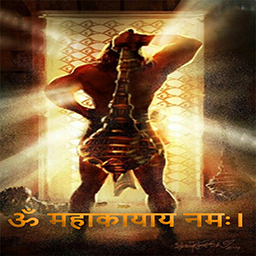
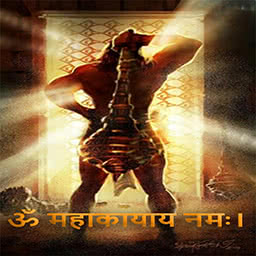
Adding images with Optimization minor changes in content

diff --git a/hanuman/hindi/pages/hanuman-chalisa-hindi-index.html b/hanuman/hindi/pages/hanuman-chalisa-hindi-index.html
@@ -25,10 +25,11 @@ a:hover, a:visited, a:link, a:active
   margin-top: 2%;
   height:290px;
 }
-.template-card-wide-background {background: url("../resources/Hanuman888.jpg") center / cover;}
+.template-card-wide-background {background: url("../resources/Hanuman889.jpg") center / cover;}
 .template_centre_button.mdl-button
 {
   position:relative;
+  font-size: 1.5rem;
   font-family: "Noto Sans Devanagari","Noto Sans", sans-serif;
   font-weight: bold;
 }
@@ -45,8 +46,8 @@ a:hover, a:visited, a:link, a:active
   position:relative;
   width:100%;
 }
-.template-card-small-background-benifits{background: url("../resources/hanuman-ji-wallpaper300-200.jpg") center / cover; }
-.template-card-small-background-process{background: url("../resources/HanumanChalisaAnusthaan356-200.jpg") center / cover; }
+.template-card-small-background-benifits{background: url("../resources/hanuman-ji-wallpaper300-201.jpg") center / cover; }
+.template-card-small-background-process{background: url("../resources/HanumanChalisaAnusthaan356-201.jpg") center / cover; }
 
 /** CSS for small card background images **/
 
@@ -62,6 +63,8 @@ a:hover, a:visited, a:link, a:active
 }
 .template-card-supporting-text.mdl-card__supporting-text
 {
+  font-size: 1.3rem;
+  line-height: 22px;
   font-family: "Noto Sans Devanagari","Noto Sans", sans-serif;
 
 }
@@ -89,21 +92,20 @@ img.article-image {
       <span class="template-layout-title mdl-layout-title">हनुमान चालीसा</span>
       <!-- Add spacer, to align navigation to the right -->
       <div class="mdl-layout-spacer"></div>
-      <!-- Navigation. We hide it in small screens. -->
+      <!-- Navigation. We hide it in small screens.
       <nav class="mdl-navigation mdl-layout--large-screen-only">
-        <a class="mdl-navigation__link" href="">Link</a>
-        <a class="mdl-navigation__link" href="">Link</a>
-        <a class="mdl-navigation__link" href="">Link</a>
-        <a class="mdl-navigation__link" href="">Link</a>
-      </nav>
+        <a class="mdl-navigation__link" href="hanuman-chalisa-hindi-download.html">हनुमान चालीसा मंत</a>
+        <a class="mdl-navigation__link" href="hanuman-chalisa-hindi-benifits.html">हनुमान चालीसा के ५ लाभ </a>
+        <a class="mdl-navigation__link" href="hanuman-chalisa-hindi-chanting-procedure.html">अनुष्ठान विध</a>
+      </nav> -->
     </div>
   </header>
   <div class="mdl-layout__drawer">
     <span class="mdl-layout-title">हनुमान चालीसा</span>
     <nav class="mdl-navigation">
-          <a class="mdl-navigation__link" href="hanuman-chalisa-hindi-download1.html">हनुमान चालीसा मंत्र</a>
-      <a class="mdl-navigation__link" href="hanuman-chalisa-hindi-benifits1.html">हनुमान चालीसा के ५ लाभ </a>
-      <a class="mdl-navigation__link" href="hanuman-chalisa-hindi-chanting-procedure1.html">अनुष्ठान विधि</a>
+          <a class="mdl-navigation__link" href="hanuman-chalisa-hindi-download.html">हनुमान चालीसा मंत्र</a>
+      <a class="mdl-navigation__link" href="hanuman-chalisa-hindi-benifits.html">हनुमान चालीसा के ५ लाभ </a>
+      <a class="mdl-navigation__link" href="hanuman-chalisa-hindi-chanting-procedure.html">अनुष्ठान विधि</a>
       <a class="mdl-navigation__link" href="HanumanHdWallpapers.html">HD वाल्ल्पपेर्स </a>
     </nav>
   </div>
@@ -113,9 +115,9 @@ img.article-image {
       <div class="template-card-wide template-card-wide-background mdl-card mdl-shadow--1dp">
 
     <!-- Accent-colored raised button with ripple -->
-  <a href="HanumanChalisaHindi.html">
+  <a href="hanuman-chalisa-hindi-download.html">
   <button class=" mdl-button template_centre_button mdl-js-button mdl-button--raised
-                  mdl-js-ripple-effect mdl-color--primary"style="width: 90px;
+                  mdl-js-ripple-effect mdl-color--primary"style="width: 110px;
                   margin-left:auto;margin-right:auto;margin-top:210px;margin-bottom:0%;display:block;">
         आगे पढ़ें
     </button>
@@ -135,7 +137,7 @@ img.article-image {
 हनुमान चालीसा का हिंदू धर्म में एक विशेष स्थान एवं महत्त्व है।  ऐसा माना जाता है कि हनुमान चालीसा के  जाप से पवनपुत्र हनुमान जी को शीघ्र संतुष्ट कर सकते हैं और उनका आशीर्वाद प्राप्त कर सकते हैं।
 </div>
     <div class="mdl-card__actions  mdl-card--border">
-      <a href="HanumanChalisaBenifits.html" class="template_centre_button mdl-button mdl-button--colored
+      <a href="hanuman-chalisa-hindi-benifits.html" class="template_centre_button mdl-button mdl-button--colored
       mdl-js-button mdl-js-ripple-effect mdl-button--primary">५ बड़े लाभ </a>
     </div>
   </div>
@@ -151,7 +153,7 @@ img.article-image {
       मंत्र पवित्र शब्द होते हैं और उनमें आपके जीवन को बदलने की शक्ति होती है।  वे एक बीज की तरह हैं  जिसका नियमित रुप से जाप और प्रथा के साथ पोषण किया जाना चाहिए।  मंत्र का जाप आपकी चेतना को प्रभावित करने की एक सूक्ष्म प्रक्रिया है। जानिये दुनिया के सबसे शक्तिशाली मंत्र का पाठ कैसे करें।
     </div>
     <div class="mdl-card__actions  mdl-card--border">
-      <a href="HanumanChalisaAnusthaan.html" class="mdl-button template_centre_button
+      <a href="hanuman-chalisa-hindi-chanting-procedure.html" class="mdl-button template_centre_button
       mdl-button--colored mdl-js-button mdl-js-ripple-effect
       mdl-button--primary">वैज्ञानिक जप विधि</a>
     </div>
@@ -170,7 +172,7 @@ img.article-image {
         </div>
         <div class="mdl-card__actions  mdl-card--border">
           <a href="HanumanChalisaAnusthaan.html" class="mdl-button template_centre_button mdl-button--colored
-          mdl-js-button mdl-js-ripple-effect mdl-button--primary">DOWNLOAD</a>
+          mdl-js-button mdl-js-ripple-effect mdl-button--primary">डाउनलोड </a>
         </div>
     </div>
     <div class="mdl-cell mdl-card mdl-shadow--4dp portfolio-card">
@@ -186,7 +188,7 @@ img.article-image {
         </div>
         <div class="mdl-card__actions  mdl-card--border">
           <a href="HanumanChalisaAnusthaan.html" class="mdl-button template_centre_button mdl-button--colored
-          mdl-js-button mdl-js-ripple-effect mdl-button--primary">DOWNLOAD</a>
+          mdl-js-button mdl-js-ripple-effect mdl-button--primary">डाउनलोड </a>
         </div>
     </div>
     <div class="mdl-cell mdl-card mdl-shadow--4dp portfolio-card">
@@ -202,7 +204,7 @@ img.article-image {
         </div>
         <div class="mdl-card__actions  mdl-card--border">
           <a href="HanumanChalisaAnusthaan.html" class="mdl-button template_centre_button mdl-button--colored
-          mdl-js-button mdl-js-ripple-effect mdl-button--primary">DOWNLOAD</a>
+          mdl-js-button mdl-js-ripple-effect mdl-button--primary">डाउनलोड </a>
         </div>
     </div>
 </section>

diff --git a/hanuman/hindi/pages/hanuman-chalisa-hindi-download.html b/hanuman/hindi/pages/hanuman-chalisa-hindi-download.html
@@ -60,6 +60,7 @@
  .template_centre_button.mdl-button
  {
    position:relative;
+   font-size: 1.5rem;
    font-family: "Noto Sans Devanagari","Noto Sans", sans-serif;
    font-weight: bold;
  }
@@ -70,7 +71,9 @@
  }
  .template-card-supporting-text.mdl-card__supporting-text
  {
-   font-family: 'Noto Sans', sans-serif;
+   font-size: 1.3rem;
+   line-height: 22px;
+   font-family: "Noto Sans Devanagari","Noto Sans", sans-serif;
  }
  .template-card-supporting-text-subheading
  {
@@ -87,8 +90,11 @@ padding-bottom:20px;
   text-align: center;
 }
  /*** CSS structures for all main cards ***/
- .template-card-wide-background {background: url("../resources/Hanuman888.jpg") center / cover;}
-
+ .template-card-wide-background {background: url("../resources/Hanuman889.jpg") center / cover;}
+ img.article-image {
+   width: 100%;
+   height: auto;
+ }
  </style>
  </head>
  <body>
@@ -96,20 +102,20 @@ padding-bottom:20px;
 
    <header class="mdl-layout__header">
      <div class="template-leftalign-header mdl-layout__header-row">
-       <a href="index.html">
+       <a href="hanuman-chalisa-hindi-index.html">
        <i class="material-icons md1">arrow_back</i>
      </a>
        <!-- Title -->
        <span class="template-layout-title_nonindex mdl-layout-title">हनुमान चालीसा मंत्र </span>
        <!-- Add spacer, to align navigation to the right -->
        <div class="mdl-layout-spacer"></div>
-       <!-- Navigation. We hide it in small screens. -->
+       <!-- Navigation. We hide it in small screens.
        <nav class="mdl-navigation mdl-layout--large-screen-only">
          <a class="mdl-navigation__link" href="">Link</a>
          <a class="mdl-navigation__link" href="">Link</a>
          <a class="mdl-navigation__link" href="">Link</a>
          <a class="mdl-navigation__link" href="">Link</a>
-       </nav>
+       </nav> -->
      </div>
    </header>
    <main class="mdl-layout__content">
@@ -259,7 +265,7 @@ padding-bottom:20px;
        <section class="section--center mdl-grid site-max-width">
          <div class="mdl-cell mdl-card mdl-shadow--4dp portfolio-card">
              <div class="mdl-card__media">
-                 <img class="article-image" src="../resources/hanuman-ji-wallpaper300-200.jpg" border="0" alt="">
+                 <img class="article-image" src="../resources/hanuman-ji-wallpaper300-201.jpg" border="0" alt="">
              </div>
              <div class="mdl-card__title">
                  <h2 class=" template-card-title-text mdl-card__title-text">हनुमान चालीसा के ५ बड़े लाभ। </h2>
@@ -277,7 +283,7 @@ padding-bottom:20px;
          </div>
          <div class="mdl-cell mdl-card mdl-shadow--4dp portfolio-card">
              <div class="mdl-card__media">
-                 <img class="article-image" src="../resources/HanumanChalisaAnusthaan356-200.jpg" border="0" alt="">
+                 <img class="article-image" src="../resources/HanumanChalisaAnusthaan356-201.jpg" border="0" alt="">
              </div>
              <div class="mdl-card__title">
                  <h2 class="template-card-title-text mdl-card__title-text">जप से अधिकतम लाभ कैसे प्राप्त करें?</h2>

diff --git a/hanuman/hindi/pages/hanuman-chalisa-hindi-benifits.html b/hanuman/hindi/pages/hanuman-chalisa-hindi-benifits.html
@@ -43,6 +43,7 @@
  .template_centre_button.mdl-button
  {
    position:relative;
+  font-size: 1.5rem;
    font-family: "Noto Sans Devanagari","Noto Sans", sans-serif;
    font-weight: bold;
  }
@@ -82,6 +83,8 @@
 
   .template-card-supporting-text.mdl-card__supporting-text
  {
+   font-size: 1.3rem;
+   line-height: 22px;
    font-family: "Noto Sans Devanagari","Noto Sans", sans-serif;
 
  }
@@ -118,7 +121,10 @@ padding-bottom:20px;
 }
  /*** CSS structures for all main cards ***/
  .template-card-wide-background {background: url("../resources/HanumanChalisaBenifits004.jpg") center / cover;}
-
+ img.article-image {
+   width: 100%;
+   height: auto;
+ }
  </style>
  </head>
  <body>
@@ -126,20 +132,20 @@ padding-bottom:20px;
 
    <header class="mdl-layout__header">
      <div class="template-leftalign-header mdl-layout__header-row">
-         <a href="index.html">
+         <a href="hanuman-chalisa-hindi-index.html">
          <i class="material-icons md1">arrow_back</i>
        </a>
        <!-- Title -->
        <span class="template-layout-title_nonindex mdl-layout-title">हनुमान चालीसा के ५ बड़े लाभ  </span>
        <!-- Add spacer, to align navigation to the right -->
        <div class="mdl-layout-spacer"></div>
-       <!-- Navigation. We hide it in small screens. -->
+       <!-- Navigation. We hide it in small screens.
        <nav class="mdl-navigation mdl-layout--large-screen-only">
          <a class="mdl-navigation__link" href="">Link</a>
          <a class="mdl-navigation__link" href="">Link</a>
          <a class="mdl-navigation__link" href="">Link</a>
          <a class="mdl-navigation__link" href="">Link</a>
-       </nav>
+       </nav> -->
      </div>
    </header>
    <main class="mdl-layout__content">
@@ -283,7 +289,7 @@ padding-bottom:20px;
             <section class="section--center mdl-grid site-max-width">
               <div class="mdl-cell mdl-card mdl-shadow--4dp portfolio-card">
                   <div class="mdl-card__media">
-                      <img class="article-image" src="../resources/hanuman-ji-wallpaper300-200.jpg" border="0" alt="">
+                      <img class="article-image" src="../resources/hanuman-ji-wallpaper300-201.jpg" border="0" alt="">
                   </div>
                   <div class="mdl-card__title">
                       <h2 class=" template-card-title-text mdl-card__title-text">हनुमान चालीसा के ५ बड़े लाभ। </h2>
@@ -301,7 +307,7 @@ padding-bottom:20px;
               </div>
               <div class="mdl-cell mdl-card mdl-shadow--4dp portfolio-card">
                   <div class="mdl-card__media">
-                      <img class="article-image" src="../resources/HanumanChalisaAnusthaan356-200.jpg" border="0" alt="">
+                      <img class="article-image" src="../resources/HanumanChalisaAnusthaan356-201.jpg" border="0" alt="">
                   </div>
                   <div class="mdl-card__title">
                       <h2 class="template-card-title-text mdl-card__title-text">जप से अधिकतम लाभ कैसे प्राप्त करें?</h2>

diff --git a/hanuman/hindi/pages/hanuman-chalisa-hindi-chanting-procedure.html b/hanuman/hindi/pages/hanuman-chalisa-hindi-chanting-procedure.html
@@ -29,6 +29,7 @@ color: #fff;
 .template_centre_button.mdl-button
 {
   position:relative;
+  font-size: 1.5rem;
   font-family: "Noto Sans Devanagari","Noto Sans", sans-serif;
   font-weight: bold;
 }
@@ -79,6 +80,8 @@ color: #fff;
  }
   .template-card-supporting-text.mdl-card__supporting-text
  {
+   font-size: 1.3rem;
+   line-height: 22px;
    font-family: "Noto Sans Devanagari","Noto Sans", sans-serif;
 
  }
@@ -115,7 +118,10 @@ padding-bottom:20px;
 }
  /*** CSS structures for all main cards ***/
  .template-card-wide-background {background: url("../resources/HanumanChalisaAnusthaan001.jpg") center / cover;}
-
+ img.article-image {
+   width: 100%;
+   height: auto;
+ }
  </style>
  </head>
  <body>
@@ -123,20 +129,20 @@ padding-bottom:20px;
 
    <header class="mdl-layout__header">
      <div class="template-leftalign-header mdl-layout__header-row">
-       <a href="index.html">
+       <a href="hanuman-chalisa-hindi-index.html">
        <i class="material-icons md1">arrow_back</i>
      </a>
        <!-- Title -->
        <span class="template-layout-title_nonindex mdl-layout-title">हनुमान चालीसा जप से अधिकतम लाभ कैसे प्राप्त करें? </span>
        <!-- Add spacer, to align navigation to the right -->
        <div class="mdl-layout-spacer"></div>
-       <!-- Navigation. We hide it in small screens. -->
+       <!-- Navigation. We hide it in small screens.
        <nav class="mdl-navigation mdl-layout--large-screen-only">
          <a class="mdl-navigation__link" href="">Link</a>
          <a class="mdl-navigation__link" href="">Link</a>
          <a class="mdl-navigation__link" href="">Link</a>
          <a class="mdl-navigation__link" href="">Link</a>
-       </nav>
+       </nav> -->
      </div>
    </header>
    <main class="mdl-layout__content">
@@ -214,7 +220,7 @@ padding-bottom:20px;
       <section class="section--center mdl-grid site-max-width">
         <div class="mdl-cell mdl-card mdl-shadow--4dp portfolio-card">
             <div class="mdl-card__media">
-                <img class="article-image" src="../resources/hanuman-ji-wallpaper300-200.jpg" border="0" alt="">
+                <img class="article-image" src="../resources/hanuman-ji-wallpaper300-201.jpg" border="0" alt="">
             </div>
             <div class="mdl-card__title">
                 <h2 class=" template-card-title-text mdl-card__title-text">हनुमान चालीसा के ५ बड़े लाभ। </h2>
@@ -232,7 +238,7 @@ padding-bottom:20px;
         </div>
         <div class="mdl-cell mdl-card mdl-shadow--4dp portfolio-card">
             <div class="mdl-card__media">
-                <img class="article-image" src="../resources/HanumanChalisaAnusthaan356-200.jpg" border="0" alt="">
+                <img class="article-image" src="../resources/HanumanChalisaAnusthaan356-201.jpg" border="0" alt="">
             </div>
             <div class="mdl-card__title">
                 <h2 class="template-card-title-text mdl-card__title-text">जप से अधिकतम लाभ कैसे प्राप्त करें?</h2>
